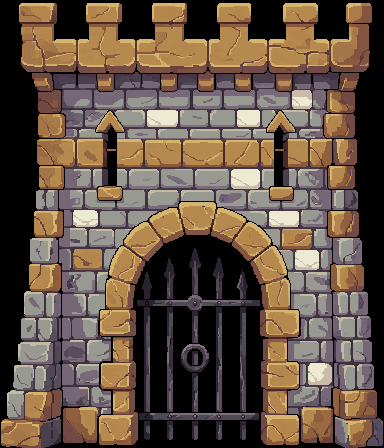
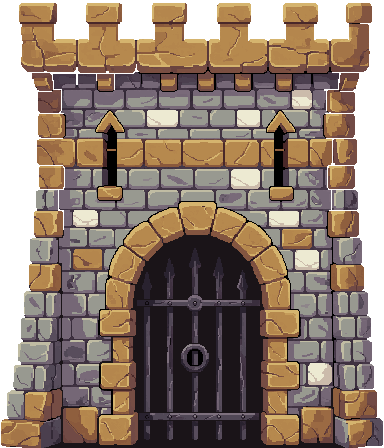
Cut the castle assets out properly and park them for placing
Raheem: "the object needs to actually be cut out properly... put the object
in the scene, in the castle front world scene, and I will place them. You
just give me assets, and I will do the placing."

So the composition I had made is undone — both pieces now sit off-canvas to
the left, unplaced.

The bastion needed two steps, and the second is not obvious. no_background
was ignored: it came back 100% opaque on solid black. cut_flat_background
floods from the frame edge rather than thresholding, which matters because
the art's own outline is black and a threshold would have dissolved it.

But an edge flood walks straight THROUGH the portcullis bars, so the cut
left a gateway you could see the sky through — a hole in the building rather
than a passage into it. close_openings.py is new and fixes that: any
transparent run with the sprite's own pixels on both sides is interior and
gets filled. It takes a --below line because the gaps between the
battlements are open to the sky and must survive, which is exactly what a
plain flood or a hole-filling pass would have eaten. Sibling to
cut_flat_background (creates transparency) and knockout_interior (removes an
interior that should be hollow); this restores one that should be solid.

The ground came back correctly transparent but dissolves toward the bottom —
measured, it is fully solid only from y=42 to y=104. Cropped to 384x76 with
a transparent top row (grass breaking the surface) and a 100% opaque bottom
[…]

diff --git a/CastleFrontWorld.js b/CastleFrontWorld.js
@@ -69,13 +69,13 @@ class CastleFrontWorld extends Phaser.Scene {
 		rEF_jelly_spawn.scaleY = 2;
 		rEF_jelly_spawn.setOrigin(0.571, 0.926);
 
-		// BASTION
-		const bASTION = this.add.image(200, 592, "castle-front-bastion");
-		bASTION.setOrigin(0.5, 1);
+		// ASSET_bastion
+		const aSSET_bastion = this.add.image(-320, 560, "castle-front-bastion");
+		aSSET_bastion.setOrigin(0.5, 1);
 
-		// GROUND_SURFACE
-		const gROUND_SURFACE = this.add.tileSprite(640, 590, 1280, 160, "castle-front-ground-band");
-		gROUND_SURFACE.setOrigin(0.5, 0);
+		// ASSET_ground_band
+		const aSSET_ground_band = this.add.tileSprite(-320, 640, 384, 76, "castle-front-ground-band");
+		aSSET_ground_band.setOrigin(0.5, 0);
 
 		this.events.emit("scene-awake");
 	}

diff --git a/card-engine/scripts/sprite-lab/lib/close_openings.py b/card-engine/scripts/sprite-lab/lib/close_openings.py
@@ -1,0 +1,95 @@
+#!/usr/bin/env python3
+"""
+Put the dark back behind a barred opening that the background cut reached through.
+
+WHY THIS EXISTS. `cut_flat_background.py` removes background by flooding inward
+from the frame edge, which is correct and is the whole reason an enclosed grey
+survives inside a sprite. But "enclosed" is a question about CONNECTIVITY, and a
+portcullis, window lattice, railing or arrow slit is not enclosed — the flood
+walks straight in between the bars. The castle bastion came out of the cut with a
+clean silhouette and a gateway you could see the sky through, which reads as a
+hole punched in the building rather than a passage into it.
+
+Regenerating would be the wrong answer twice over: the art is right, and the
+defect is deterministic and local. Per the playbook's correction ladder this is
+rung 1 — a local operation that cannot drift identity.
+
+METHOD, and why it is a horizontal span test rather than another flood. Working
+row by row, any transparent run with opaque pixels on BOTH sides within the
+sprite's own silhouette is interior, and gets filled. That is exactly true for
+the space between portcullis bars and exactly false for the gaps between
+battlements, which are open to the sky above — so the rule alone would eat the
+crenellations. Hence `--below`: the caller states where the building's solid mass
+begins, and nothing above that line is touched.
+
+Sibling to `cut_flat_background.py` (creates transparency) and `knockout_interior.py`
+(removes an interior that should be hollow). This one restores an interior that
+should be solid. Run it after the cut, before dehalo.
+
+Usage:
+  close_openings.py <in.png> <out.png> --below <y> [--color "#1a1418"] [--dry-run]
+"""
+
+import argparse
+import sys
+
+from PIL import Image
+
+
+def parse_colour(text: str) -> tuple:
+    text = text.lstrip('#')
+    if len(text) != 6:
+        raise ValueError(f'colour must be #rrggbb, got {text!r}')
+    return tuple(int(text[i:i + 2], 16) for i in (0, 2, 4)) + (255,)
+
+
+def close_openings(src: str, dst: str, below: int, colour: tuple, dry_run: bool) -> int:
+    image = Image.open(src).convert('RGBA')
+    width, height = image.size
+    px = image.load()
+
+    filled = 0
+    for y in range(max(0, below), height):
+        opaque = [x for x in range(width) if px[x, y][3] > 8]
+        if len(opaque) < 2:
+            continue
+        left, right = opaque[0], opaque[-1]
+        run_start = None
+        for x in range(left, right + 1):
+            transparent = px[x, y][3] <= 8
+            if transparent and run_start is None:
+                run_start = x
+            elif not transparent and run_start is not None:
+                # Bounded on both sides by the sprite's own pixels: interior.
+                for fill_x in range(run_start, x):
+                    if not dry_run:
+                        px[fill_x, y] = colour
+                    filled += 1
+                run_start = None
+        # A run still open at `right` cannot happen — `right` is opaque by
+        # construction — so there is deliberately no tail case here.
+
+    if not dry_run:
+        image.save(dst)
+    return filled
+
+
+def main() -> int:
+    ap = argparse.ArgumentParser(description=__doc__, formatter_class=argparse.RawDescriptionHelpFormatter)
+    ap.add_argument('src')
+    ap.add_argument('dst')
+    ap.add_argument('--below', type=int, required=True,
+                    help='Only rows at or below this y are considered. Protects gaps that are open to the sky.')
+    ap.add_argument('--color', default='#1a1418',
+                    help='Fill colour for the restored interior. Default is a near-black shadow.')
+    ap.add_argument('--dry-run', action='store_true')
+    args = ap.parse_args()
+
+    filled = close_openings(args.src, args.dst, args.below, parse_colour(args.color), args.dry_run)
+    verb = 'would fill' if args.dry_run else 'filled'
+    print(f'{args.src}  {verb} {filled} px below y={args.below}')
+    return 0
+
+
+if __name__ == '__main__':
+    sys.exit(main())
